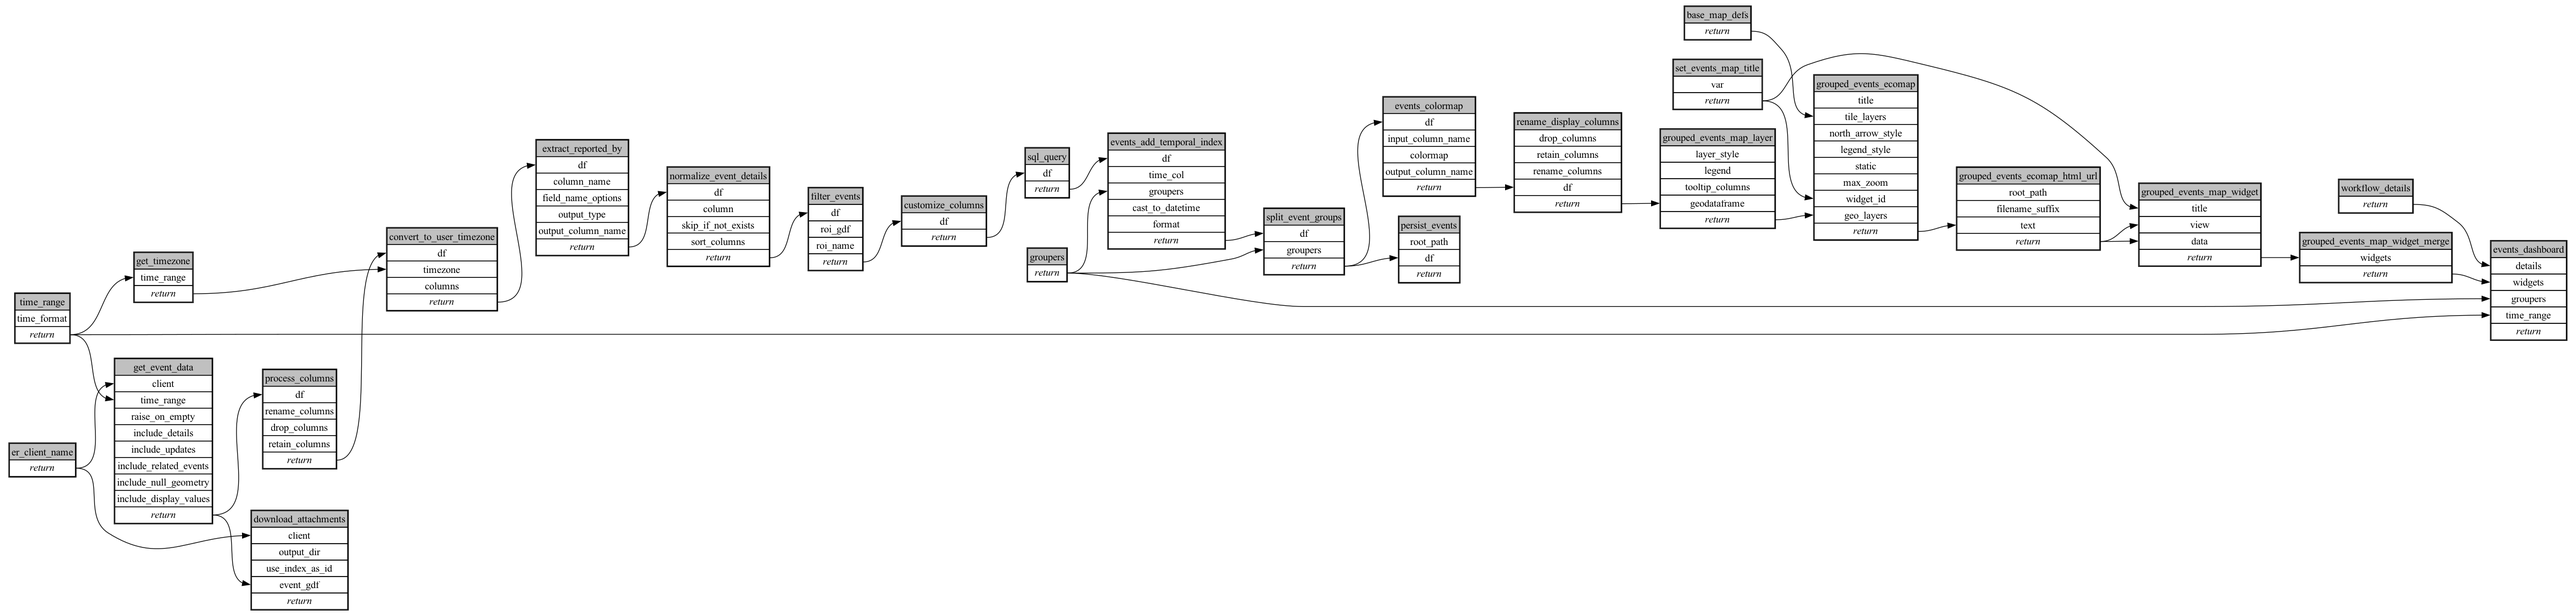
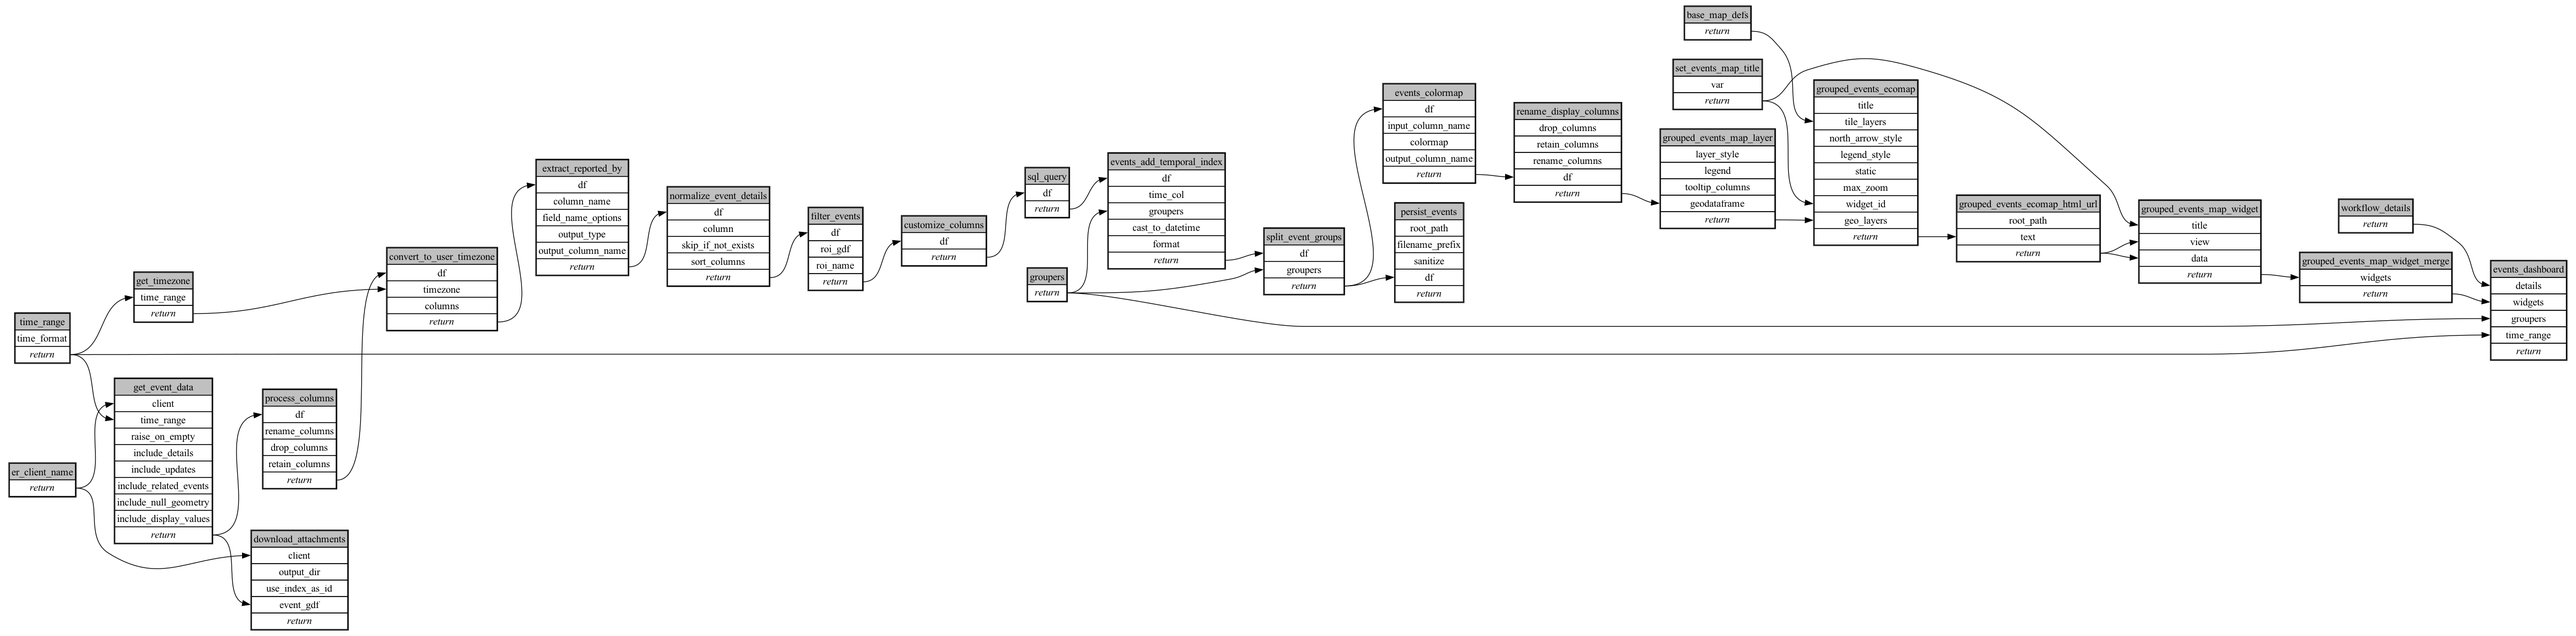
polish persist file settings

Changed region(s): [[0.0, 0.0, 1.0, 0.9653]]

diff --git a/workflows/download-events/ecoscope-workflows-download-events-workflow/ecoscope_workflows_download_events_workflow/formdata.py b/workflows/download-events/ecoscope-workflows-download-events-workflow/ecoscope_workflows_download_events_workflow/formdata.py
@@ -83,8 +83,8 @@ class DownloadAttachments(BaseModel):
     )
     attachments_subdir: Optional[str] = Field(
         "attachments",
-        description="Subdirectory inside output_dir to store attachments.",
-        title="Attachments Subdir",
+        description="Subdirectory inside the output directory to store attachments.",
+        title="Attachments Subdirectory",
     )
     skip_download: Optional[bool] = Field(
         True,
@@ -136,18 +136,8 @@ class PersistEvents(BaseModel):
     model_config = ConfigDict(
         extra="forbid",
     )
-    filename: Optional[str] = Field(
-        None,
-        description="            Optional filename to persist text to within the `root_path`.\n            If not provided, a filename will be generated based on a hash of the df content.\n            ",
-        title="Filename",
-    )
     filetypes: Optional[List[Filetype]] = Field(
         ["csv"], description="The output format", title="Filetypes"
-    )
-    sanitize: Optional[bool] = Field(
-        True,
-        description="Whether to sanitize the dataframe for Arrow compatibility before persisting, recommended when including event or observation details",
-        title="Sanitize",
     )
 
 
@@ -424,7 +414,7 @@ class FormData(BaseModel):
     Process_Events: Optional[ProcessEvents] = Field(
         None,
         alias="Process Events",
-        description="Process Events by applying filters, SQL queries, etc. Note that the data here includes all the columns from the previous steps, including normalized event details.",
+        description="Process events by applying filters, SQL queries, etc. Note that the data here includes all the columns from the previous steps and the normalized event details.",
     )
     persist_events: Optional[PersistEvents] = Field(None, title="Persist Events")
     base_map_defs: Optional[BaseMapDefs] = Field(None, title="Map Base Layers")

diff --git a/workflows/download-events/ecoscope-workflows-download-events-workflow/ecoscope_workflows_download_events_workflow/params.py b/workflows/download-events/ecoscope-workflows-download-events-workflow/ecoscope_workflows_download_events_workflow/params.py
@@ -83,8 +83,8 @@ class DownloadAttachments(BaseModel):
     )
     attachments_subdir: Optional[str] = Field(
         "attachments",
-        description="Subdirectory inside output_dir to store attachments.",
-        title="Attachments Subdir",
+        description="Subdirectory inside the output directory to store attachments.",
+        title="Attachments Subdirectory",
     )
     skip_download: Optional[bool] = Field(
         False,
@@ -136,18 +136,8 @@ class PersistEvents(BaseModel):
     model_config = ConfigDict(
         extra="forbid",
     )
-    filename: Optional[str] = Field(
-        None,
-        description="            Optional filename to persist text to within the `root_path`.\n            If not provided, a filename will be generated based on a hash of the df content.\n            ",
-        title="Filename",
-    )
     filetypes: Optional[List[Filetype]] = Field(
         ["csv"], description="The output format", title="Filetypes"
-    )
-    sanitize: Optional[bool] = Field(
-        False,
-        description="Whether to sanitize the dataframe for Arrow compatibility before persisting, recommended when including event or observation details",
-        title="Sanitize",
     )
 
 

diff --git a/workflows/download-events/ecoscope-workflows-download-events-workflow/ecoscope_workflows_download_events_workflow/dags/jupytext.py b/workflows/download-events/ecoscope-workflows-download-events-workflow/ecoscope_workflows_download_events_workflow/dags/jupytext.py
@@ -610,7 +610,6 @@ split_event_groups = (
 persist_events_params = dict(
     filename=...,
     filetypes=...,
-    sanitize=...,
 )
 
 # %%
@@ -628,7 +627,10 @@ persist_events = (
         unpack_depth=1,
     )
     .partial(
-        root_path=os.environ["ECOSCOPE_WORKFLOWS_RESULTS"], **persist_events_params
+        root_path=os.environ["ECOSCOPE_WORKFLOWS_RESULTS"],
+        filename_prefix="events",
+        sanitize=True,
+        **persist_events_params,
     )
     .mapvalues(argnames=["df"], argvalues=split_event_groups)
 )
@@ -851,6 +853,7 @@ grouped_events_ecomap = (
 
 grouped_events_ecomap_html_url_params = dict(
     filename=...,
+    filename_suffix=...,
 )
 
 # %%
@@ -870,7 +873,6 @@ grouped_events_ecomap_html_url = (
     )
     .partial(
         root_path=os.environ["ECOSCOPE_WORKFLOWS_RESULTS"],
-        filename_suffix="v2",
         **grouped_events_ecomap_html_url_params,
     )
     .mapvalues(argnames=["text"], argvalues=grouped_events_ecomap)

diff --git a/workflows/download-events/ecoscope-workflows-download-events-workflow/ecoscope_workflows_download_events_workflow/dags/run_async.py b/workflows/download-events/ecoscope-workflows-download-events-workflow/ecoscope_workflows_download_events_workflow/dags/run_async.py
@@ -456,6 +456,8 @@ def main(params: Params):
             .set_executor("lithops"),
             partial={
                 "root_path": os.environ["ECOSCOPE_WORKFLOWS_RESULTS"],
+                "filename_prefix": "events",
+                "sanitize": True,
             }
             | (params_dict.get("persist_events") or {}),
             method="mapvalues",
@@ -640,7 +642,6 @@ def main(params: Params):
             .set_executor("lithops"),
             partial={
                 "root_path": os.environ["ECOSCOPE_WORKFLOWS_RESULTS"],
-                "filename_suffix": "v2",
             }
             | (params_dict.get("grouped_events_ecomap_html_url") or {}),
             method="mapvalues",

diff --git a/workflows/download-events/ecoscope-workflows-download-events-workflow/ecoscope_workflows_download_events_workflow/dags/run_async_mock_io.py b/workflows/download-events/ecoscope-workflows-download-events-workflow/ecoscope_workflows_download_events_workflow/dags/run_async_mock_io.py
@@ -474,6 +474,8 @@ def main(params: Params):
             .set_executor("lithops"),
             partial={
                 "root_path": os.environ["ECOSCOPE_WORKFLOWS_RESULTS"],
+                "filename_prefix": "events",
+                "sanitize": True,
             }
             | (params_dict.get("persist_events") or {}),
             method="mapvalues",
@@ -658,7 +660,6 @@ def main(params: Params):
             .set_executor("lithops"),
             partial={
                 "root_path": os.environ["ECOSCOPE_WORKFLOWS_RESULTS"],
-                "filename_suffix": "v2",
             }
             | (params_dict.get("grouped_events_ecomap_html_url") or {}),
             method="mapvalues",

diff --git a/workflows/download-events/ecoscope-workflows-download-events-workflow/ecoscope_workflows_download_events_workflow/dags/run_sequential.py b/workflows/download-events/ecoscope-workflows-download-events-workflow/ecoscope_workflows_download_events_workflow/dags/run_sequential.py
@@ -397,6 +397,8 @@ def main(params: Params):
         )
         .partial(
             root_path=os.environ["ECOSCOPE_WORKFLOWS_RESULTS"],
+            filename_prefix="events",
+            sanitize=True,
             **(params_dict.get("persist_events") or {}),
         )
         .mapvalues(argnames=["df"], argvalues=split_event_groups)
@@ -550,7 +552,6 @@ def main(params: Params):
         )
         .partial(
             root_path=os.environ["ECOSCOPE_WORKFLOWS_RESULTS"],
-            filename_suffix="v2",
             **(params_dict.get("grouped_events_ecomap_html_url") or {}),
         )
         .mapvalues(argnames=["text"], argvalues=grouped_events_ecomap)

diff --git a/workflows/download-events/ecoscope-workflows-download-events-workflow/ecoscope_workflows_download_events_workflow/dags/run_sequential_mock_io.py b/workflows/download-events/ecoscope-workflows-download-events-workflow/ecoscope_workflows_download_events_workflow/dags/run_sequential_mock_io.py
@@ -415,6 +415,8 @@ def main(params: Params):
         )
         .partial(
             root_path=os.environ["ECOSCOPE_WORKFLOWS_RESULTS"],
+            filename_prefix="events",
+            sanitize=True,
             **(params_dict.get("persist_events") or {}),
         )
         .mapvalues(argnames=["df"], argvalues=split_event_groups)
@@ -568,7 +570,6 @@ def main(params: Params):
         )
         .partial(
             root_path=os.environ["ECOSCOPE_WORKFLOWS_RESULTS"],
-            filename_suffix="v2",
             **(params_dict.get("grouped_events_ecomap_html_url") or {}),
         )
         .mapvalues(argnames=["text"], argvalues=grouped_events_ecomap)

diff --git a/workflows/download-events/ecoscope-workflows-download-events-workflow/README.md b/workflows/download-events/ecoscope-workflows-download-events-workflow/README.md
@@ -5,8 +5,8 @@
 
 ```yaml
 # fingerprint:
-artifacts_sha256_basic: 74f7d1956885f3f4c52571649e481b38bb5b65b5fa1f566faacf84eb054e8702
-artifacts_sha256_strict: 8ed2993156ad82a479ca74b57b6c978be3f9885f6370334fd39f1cc97389fc19
+artifacts_sha256_basic: 2ce144af50ea9c197b662422543f62b22db21856d128922695c95bbfb6a586c0
+artifacts_sha256_strict: a630733b7c844081c1b3b69fff54176935a99888b319682786c7671534e10e6e
 installed_requirements:
 - channel: https://repo.prefix.dev/ecoscope-workflows/
   name: ecoscope-workflows-core
@@ -17,8 +17,8 @@ installed_requirements:
 - channel: https://repo.prefix.dev/ecoscope-workflows-custom/
   name: ecoscope-workflows-ext-custom
   version: {version: ==0.0.10}
-params_sha256: a1ba99fb62c5431c2f5f4b45b4cbe75088597da10888243b47c6402be9bd6e5d
-spec_sha256: ce42d9921fa6d41980f9dd8f9601c6bad65bdde673b5dcb162a418ddb41cdb11
+params_sha256: e37b3acbfa4ca0f48dd9487a2e21d5b1f4a41be87091db049dacf9c1ac2d8988
+spec_sha256: e52fd0659e8a3445e4a0389c4fd6861b6a6995c549ef1136973cf4525f21fda2
 
 ```
 
